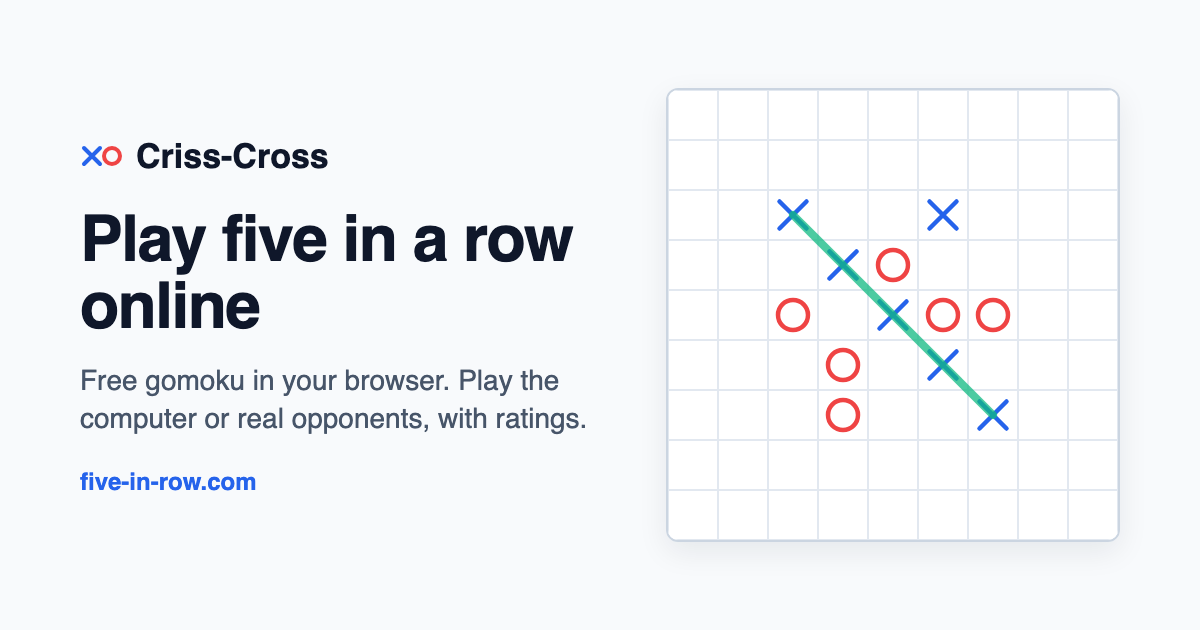
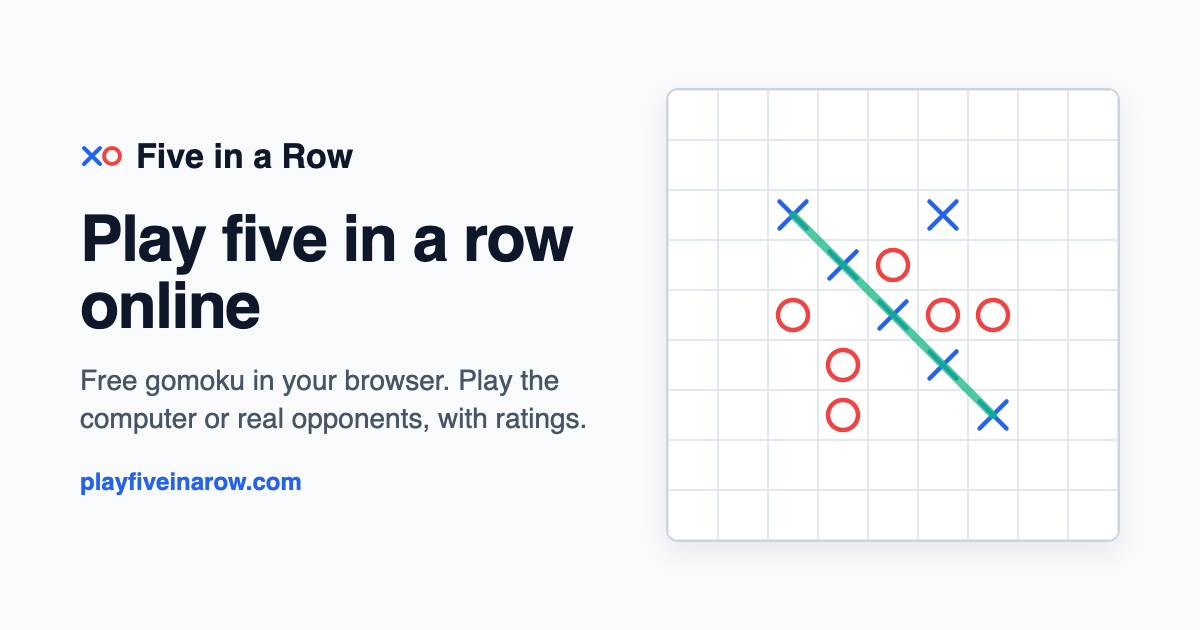
Rebrand to Play Five in a Row and move to playfiveinarow.com
- site name "Five in a Row" in the header, footer, login and rules pages;
  page titles lead with the search phrase
- canonical URLs, Open Graph, sitemap and robots.txt default to
  https://playfiveinarow.com; manifest and og-image updated
- server: optional permanent redirect from old domains to CANONICAL_HOST
  (REDIRECT_FROM_HOSTS), 301 for GET/HEAD and 308 otherwise, keeping the
  path and query

Changed region(s): [[0.0925, 0.2111, 0.3083, 0.2714], [0.0617, 0.754, 0.2467, 0.7841]]

diff --git a/apps/web/src/seo.ts b/apps/web/src/seo.ts
@@ -1,7 +1,7 @@
 /** Per-page <head> data for the public, pre-rendered pages (and the default for the app shell). */
 
-export const SITE_URL = (import.meta.env.VITE_SITE_URL ?? 'https://five-in-row.com').replace(/\/$/, '');
-export const SITE_NAME = 'Criss-Cross';
+export const SITE_URL = (import.meta.env.VITE_SITE_URL ?? 'https://playfiveinarow.com').replace(/\/$/, '');
+export const SITE_NAME = 'Play Five in a Row';
 
 export interface PageMeta {
   path: string;
@@ -19,7 +19,7 @@ export interface FaqItem {
 
 export const FAQ: FaqItem[] = [
   {
-    q: 'Is Criss-Cross free?',
+    q: 'Is it free to play?',
     a: 'Yes. Playing against the computer and against other people is free, with no ads.',
   },
   {
@@ -32,7 +32,7 @@ export const FAQ: FaqItem[] = [
   },
   {
     q: 'Is five in a row the same as gomoku?',
-    a: 'Yes. Five in a row is the common English name for gomoku. Criss-Cross plays freestyle gomoku: five or more marks in a row win.',
+    a: 'Yes. Five in a row is the common English name for gomoku. This site plays freestyle gomoku: five or more marks in a row win.',
   },
   {
     q: 'Does the first player have an advantage?',
@@ -48,7 +48,7 @@ export const PAGES: PageMeta[] = [
   {
     path: '/',
     file: 'index.html',
-    title: 'Five in a Row Online — Play Gomoku Free | Criss-Cross',
+    title: 'Play Five in a Row Online — Free Gomoku Game',
     description:
       'Play five in a row (gomoku) free in your browser. Challenge the computer instantly, no sign-up needed, or play real opponents online with chat, Glicko-2 ratings and a leaderboard.',
     jsonLd: [
@@ -56,7 +56,7 @@ export const PAGES: PageMeta[] = [
         '@context': 'https://schema.org',
         '@type': ['WebApplication', 'Game'],
         name: SITE_NAME,
-        alternateName: ['Five in a Row', 'Gomoku Online'],
+        alternateName: ['Five in a Row', 'Gomoku', 'Five in a Row Online'],
         url: `${SITE_URL}/`,
         description: 'Free online five in a row (gomoku): play the computer or real opponents, with ratings and a leaderboard.',
         applicationCategory: 'GameApplication',
@@ -71,7 +71,7 @@ export const PAGES: PageMeta[] = [
   {
     path: '/rules',
     file: 'rules.html',
-    title: 'How to Play Five in a Row (Gomoku): Rules and Strategy | Criss-Cross',
+    title: 'How to Play Five in a Row (Gomoku): Rules and Strategy',
     description:
       'Five in a row rules in one minute, plus beginner strategy: open threes, fours, double threats and forced wins. Learn gomoku and practise against the computer.',
     jsonLd: [
@@ -85,7 +85,7 @@ export const PAGES: PageMeta[] = [
   {
     path: '/play/computer',
     file: 'play-computer.html',
-    title: 'Play Gomoku Against the Computer — Free, No Sign-up | Criss-Cross',
+    title: 'Play Five in a Row Against the Computer — Free, No Sign-up',
     description:
       'Play five in a row against the computer in your browser. Three difficulty levels, from casual to a Hard AI that finds forced wins. Free, no account needed.',
   },
@@ -95,7 +95,7 @@ export const PAGES: PageMeta[] = [
 export const APP_META: PageMeta = {
   path: '/',
   file: 'app.html',
-  title: 'Criss-Cross — five in a row online',
+  title: 'Play Five in a Row — online gomoku',
   description: 'Play five in a row (gomoku) online: rooms, chat, ratings and a leaderboard.',
 };
 

diff --git a/apps/web/src/components/Layout.tsx b/apps/web/src/components/Layout.tsx
@@ -18,7 +18,7 @@ export function Layout() {
           <NavLink to="/" className="flex items-center gap-1 text-base font-bold tracking-tight">
             <MarkIcon mark="X" className="h-5 w-5" />
             <MarkIcon mark="O" className="-ml-1 h-5 w-5" />
-            Criss-Cross
+            Five in a Row
           </NavLink>
           {user ? <MemberNav user={user} /> : <GuestNav />}
         </div>
@@ -30,7 +30,7 @@ export function Layout() {
       </main>
       <footer className="border-t border-slate-200 bg-white">
         <div className="mx-auto flex max-w-6xl flex-wrap items-center gap-x-5 gap-y-1 px-4 py-4 text-xs text-slate-500">
-          <span>© {new Date().getFullYear()} Criss-Cross · five in a row online</span>
+          <span>© {new Date().getFullYear()} Play Five in a Row · playfiveinarow.com</span>
           <Link to="/rules" className="hover:text-slate-800">
             Rules &amp; strategy
           </Link>

diff --git a/apps/server/src/main.ts b/apps/server/src/main.ts
@@ -19,6 +19,16 @@ async function bootstrap() {
   config.jwtSecret; // fail fast if missing
   const app = await NestFactory.create<NestExpressApplication>(AppModule);
   app.setGlobalPrefix('api');
+  // Permanent redirect from old domains (e.g. five-in-row.com) to the canonical one.
+  const { canonicalHost, redirectFromHosts } = config;
+  if (canonicalHost && redirectFromHosts.length) {
+    app.use((req: any, res: any, next: () => void) => {
+      const host = String(req.headers.host ?? '').split(':')[0].toLowerCase();
+      if (!redirectFromHosts.includes(host)) return next();
+      const status = req.method === 'GET' || req.method === 'HEAD' ? 301 : 308;
+      res.redirect(status, `https://${canonicalHost}${req.originalUrl}`);
+    });
+  }
   app.use(compression());
   app.use(cookieParser());
   app.enableShutdownHooks();

diff --git a/apps/server/src/config.ts b/apps/server/src/config.ts
@@ -17,6 +17,17 @@ export const config = {
   get devLogin() {
     return !this.isProduction && process.env.DEV_LOGIN === 'true';
   },
+  /** Public host the site lives on, e.g. playfiveinarow.com. */
+  get canonicalHost() {
+    return process.env.CANONICAL_HOST?.trim().toLowerCase() || null;
+  },
+  /** Old domains that should permanently redirect to the canonical host. */
+  get redirectFromHosts(): string[] {
+    return (process.env.REDIRECT_FROM_HOSTS ?? '')
+      .split(',')
+      .map((h) => h.trim().toLowerCase())
+      .filter(Boolean);
+  },
   get adminEmails(): string[] {
     return (process.env.ADMIN_EMAILS ?? '')
       .split(',')

diff --git a/apps/web/src/pages/RulesPage.tsx b/apps/web/src/pages/RulesPage.tsx
@@ -59,7 +59,7 @@ export function RulesPage() {
         </ul>
         <Pattern cells="_XXXXX_" label="Five in a row: X wins." />
         <p>
-          Criss-Cross uses <em>freestyle</em> rules, where a line of six or more also wins. Other variants exist: standard
+          This site uses <em>freestyle</em> rules, where a line of six or more also wins. Other variants exist: standard
           gomoku counts only exactly five, and renju adds restrictions for the first player to balance the game.
         </p>
       </Section>

diff --git a/apps/web/index.html b/apps/web/index.html
@@ -3,7 +3,7 @@
   <head>
     <meta charset="UTF-8" />
     <meta name="viewport" content="width=device-width, initial-scale=1.0" />
-    <title>Criss-Cross — five in a row online</title>
+    <title>Play Five in a Row — online gomoku</title>
     <meta name="theme-color" content="#ffffff" />
     <link rel="icon" href="/favicon.svg" type="image/svg+xml" />
     <link rel="icon" href="/icon-192.png" type="image/png" sizes="192x192" />

diff --git a/apps/web/src/pages/LoginPage.tsx b/apps/web/src/pages/LoginPage.tsx
@@ -33,7 +33,7 @@ export function LoginPage() {
               </span>
             ))}
           </div>
-          <h1 className="text-xl font-bold">Sign in to Criss-Cross</h1>
+          <h1 className="text-xl font-bold">Sign in to Five in a Row</h1>
           <p className="mt-1 text-sm text-slate-500">Five in a row, online. Sign in to play.</p>
         </div>
 

diff --git a/README.md b/README.md
@@ -1,4 +1,6 @@
-# Criss-Cross
+# Play Five in a Row
+
+Live at **https://playfiveinarow.com**.
 
 Online five-in-a-row (gomoku). Players put X and O inside the cells of a 15×15 white board, and the first to get five in a row wins. The app includes:
 
